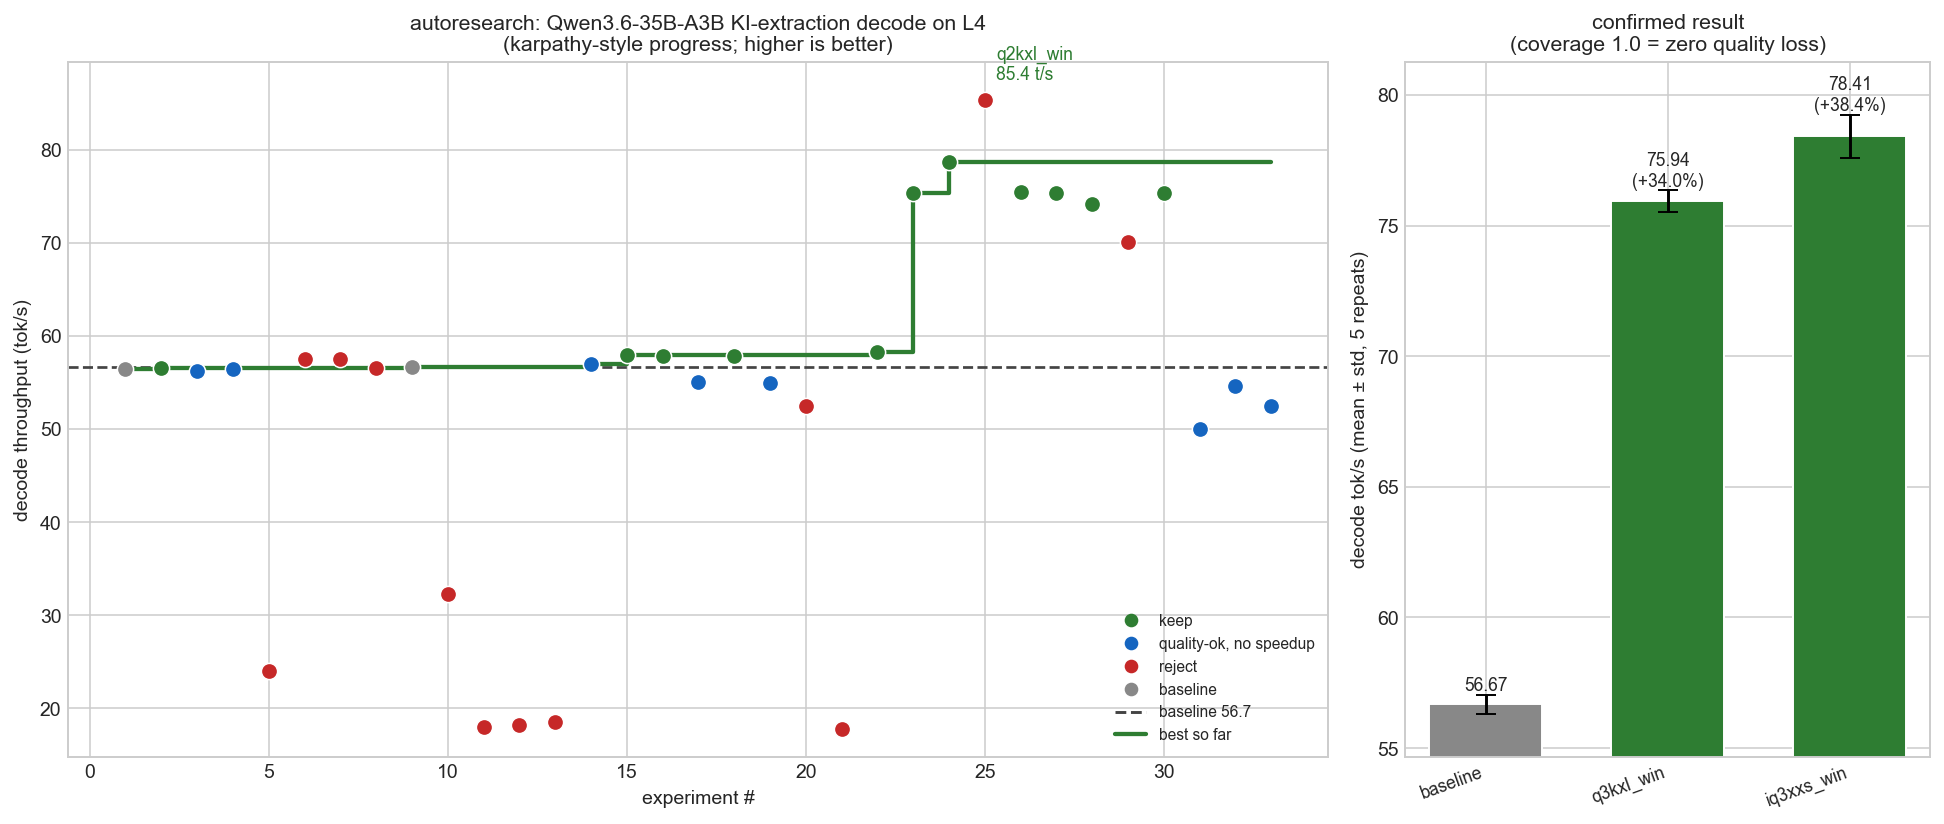
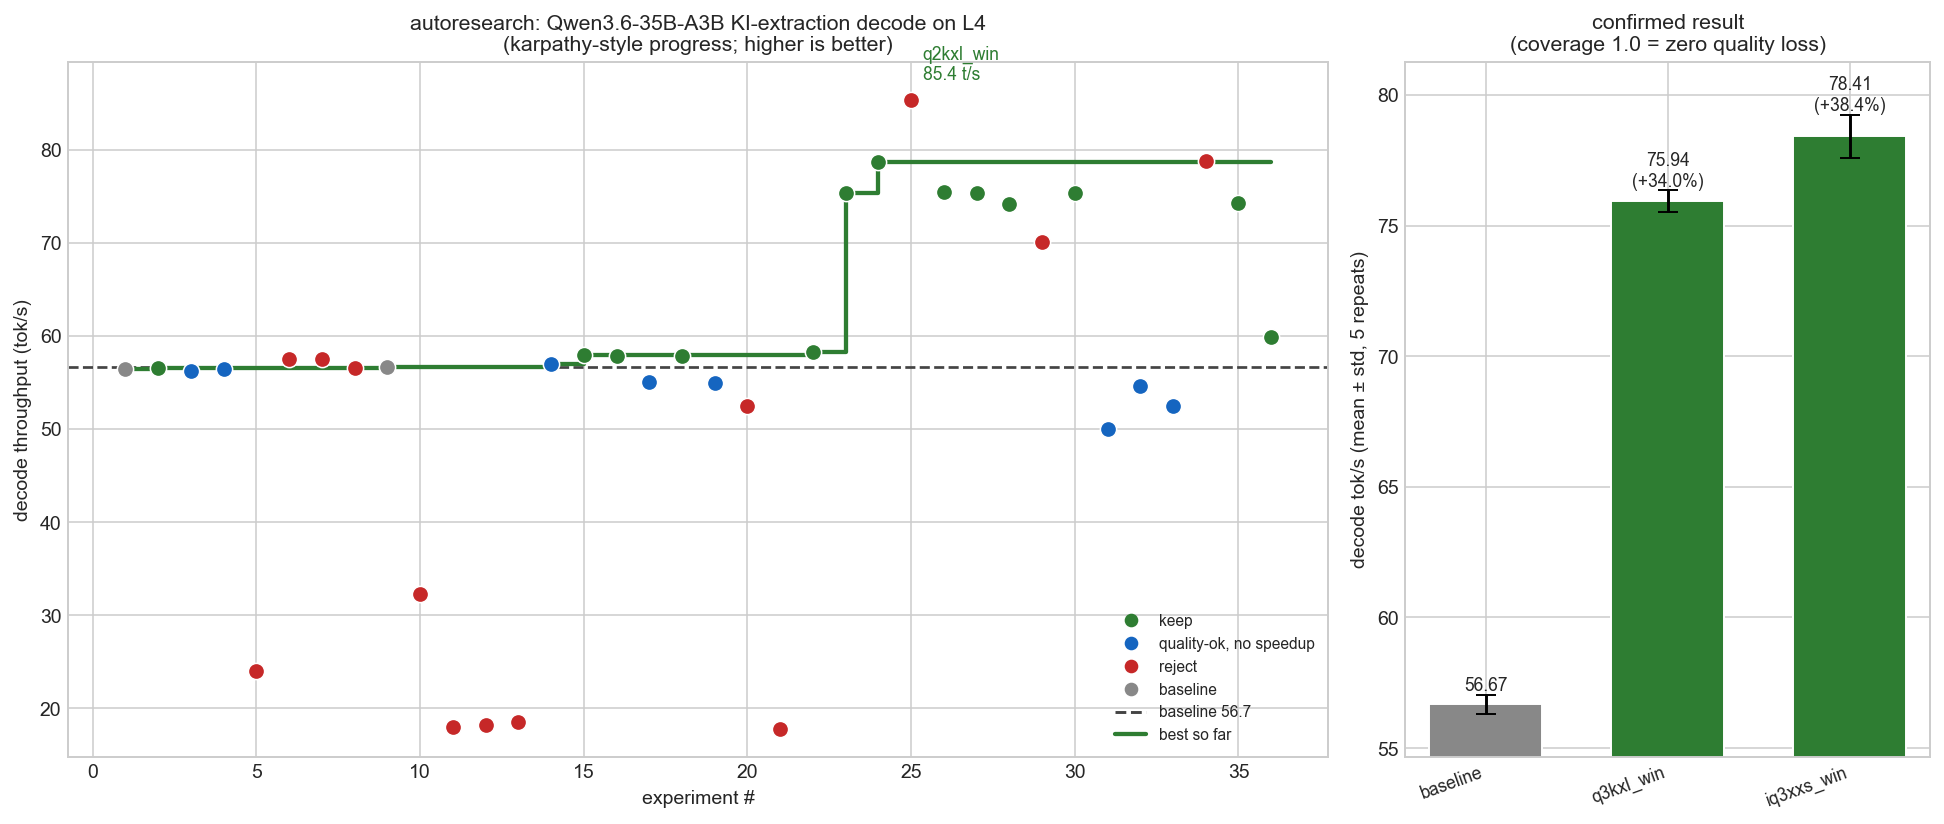
Round 2: MXFP4 probe (59.9, efficiency not format-improvable); add schema-overhead test harness
MXFP4_MOE 4bpw gives 59.9 t/s (~Q4 level), confirming the ~33% bandwidth
efficiency is fixed by hardware not format -> bits/weight is the only lever.
Quant frontier fully mapped: Q3_K_XL (3.5bpw k-quant) is the quality-preserving
speed optimum. i-quants degrade quality (KIs or grounding); Q3_K_M slower.

diff --git a/autoresearch/candidates.py b/autoresearch/candidates.py
@@ -155,9 +155,30 @@ BATCH8 = [
     cfg("iq3s_win",  "UD-IQ3_S @ win (~3.44bpw i-quant)", model=IQ3_S, **WIN),
 ]
 
+# ----- Batch 9: MXFP4_MOE - is the ~33% bandwidth efficiency format-dependent?
+# MXFP4 is 4bpw (more bytes than Q3's 3.5) but has native fast dequant on Ada
+# (L4). To beat Q3 (75.9) it must be >14% more kernel-efficient. Tests whether
+# the efficiency ceiling, not just bits, can be moved. Quality ~Q4-level.
+MXFP4 = "/models/Qwen3.6-35B-A3B-MXFP4_MOE.gguf"
+BATCH9 = [
+    cfg("mxfp4_win", "MXFP4_MOE @ win (~4bpw, Ada-native kernel)", model=MXFP4, **WIN),
+]
+
+# ----- Batch 10: JSON-schema grammar overhead at Q3. The schema grammar is
+# enforced per-token on CPU; at Q3's higher token rate that CPU overhead is a
+# larger fraction of step time, so dropping response_format may speed decode.
+# Quality-safe IFF the model still emits valid JSON unprompted (coverage guard).
+# This changes the sampling/serving config, NOT the extraction prompt.
+def nsc(id, desc, **ov):
+    c = cfg(id, desc, model=Q3_K_XL, **ov); c["no_schema"] = True; return c
+BATCH10 = [
+    cfg("q3_schema_ctrl", "Q3 + win + schema (control)", model=Q3_K_XL, **WIN),
+    nsc("q3_noschema",    "Q3 + win, NO json-schema grammar", **WIN),
+]
+
 BATCHES = {"batch1": BATCH1, "batch2": BATCH2, "batch3": BATCH3,
            "batch4": BATCH4, "batch5": BATCH5, "batch6": BATCH6,
-           "batch7": BATCH7, "batch8": BATCH8}
+           "batch7": BATCH7, "batch8": BATCH8, "batch9": BATCH9, "batch10": BATCH10}
 
 if __name__ == "__main__":
     name = sys.argv[1] if len(sys.argv) > 1 else "batch1"

diff --git a/autoresearch/harness.py b/autoresearch/harness.py
@@ -149,7 +149,7 @@ def load_doc():
     with open(DOC_CACHE) as f:
         return f.read()
 
-def build_payload(doc_text, prompt, sampling, seed):
+def build_payload(doc_text, prompt, sampling, seed, no_schema=False):
     docid = hashlib.md5(doc_text[:500].encode()).hexdigest()[:8]
     full = f"{prompt}\n\nDocument:\n  docid: {docid}\n  url: {ARTICLE_URL}\n  text: {doc_text}"
     p = {
@@ -157,10 +157,11 @@ def build_payload(doc_text, prompt, sampling, seed):
         "messages": [{"role": "user", "content": full}],
         "stream": False,
         "seed": seed,
-        "response_format": {"type": "json_schema",
-                            "json_schema": {"name": "ki_facts", "strict": True, "schema": FACT_SCHEMA}},
         "chat_template_kwargs": {"enable_thinking": False},
     }
+    if not no_schema:  # default: constrain with the JSON schema grammar
+        p["response_format"] = {"type": "json_schema",
+                                "json_schema": {"name": "ki_facts", "strict": True, "schema": FACT_SCHEMA}}
     p.update(sampling)
     return p
 
@@ -264,8 +265,9 @@ def run_config(cfg, baseline=None, reuse_server=False):
     timings_all = [None] * len(SEEDS)
     schema_flags = [True] * len(SEEDS)
 
+    no_schema = cfg.get("no_schema", False)
     def do_seed(i, seed):
-        content, timings, wall = call_round(build_payload(doc, prompt, sampling, seed))
+        content, timings, wall = call_round(build_payload(doc, prompt, sampling, seed, no_schema))
         facts, strict = parse_facts(content)
         rounds[i] = facts
         timings_all[i] = timings

diff --git a/autoresearch/leaderboard.md b/autoresearch/leaderboard.md
@@ -8,33 +8,36 @@ Ranked by task throughput (tokens/sec for the 3-round task). decode_tps = per-st
 |---|---|---|---|---|---|---|---|---|---|---|
 | 1 | q2kxl_win | 82.27 | +49.7% | 85.41 | - | 19 | 1.0 | 0.263 | REJECT | UD-Q2_K_XL @ win (~2.7bpw, aggressiv |
 | 2 | iq3xxs_win | 76.44 | +39.1% | 78.72 | - | 24 | 1.0 | 0.75 | KEEP | UD-IQ3_XXS @ win (~3.1bpw) |
-| 3 | q3_n3_p0 | 73.24 | +33.3% | 75.5 | - | 23 | 1.0 | 0.565 | KEEP | Q3 + n3 p-min0 (no gate) |
-| 4 | q3kxl_win | 73.07 | +33.0% | 75.39 | - | 23 | 1.0 | 0.565 | KEEP | UD-Q3_K_XL @ winning flags (~3.5bpw, |
-| 5 | q3_mtp_ctrl | 73.07 | +33.0% | 75.37 | - | 23 | 1.0 | 0.565 | KEEP | Q3 + MTP n3 p0.1 (control) |
-| 6 | q3_n3_p01 | 73.04 | +32.9% | 75.33 | - | 23 | 1.0 | 0.565 | KEEP | Q3 + n3 p-min0.1 (current winner, co |
-| 7 | q3_n4_p01 | 71.88 | +30.8% | 74.16 | - | 20 | 1.0 | 0.7 | KEEP | Q3 + n4 p-min0.1 |
-| 8 | q3_n5_p01 | 67.92 | +23.6% | 70.13 | - | 21 | 1.0 | 0.143 | REJECT | Q3 + n5 p-min0.1 |
-| 9 | mtp_n3 | 57.58 | +4.8% | 57.58 | - | 20 | 1.0 | 0.6 | REJECT | MTP draft n-max 3 |
-| 10 | mtp_n3_min1 | 57.56 | +4.7% | 57.56 | - | 20 | 1.0 | 0.6 | REJECT | MTP n-max 3 n-min 1 |
-| 11 | ctx12k | 56.61 | +3.0% | 56.61 | - | 21 | 1.0 | 0.524 | KEEP | ctx 12288 (smaller KV -> less offloa |
-| 12 | mtp_n4 | 56.61 | +3.0% | 56.61 | - | 23 | 1.0 | 0.478 | REJECT | MTP draft n-max 4 |
-| 13 | kv_q8 | 56.4 | +2.6% | 56.4 | - | 22 | 1.0 | 0.636 | QUALITY_OK_NO_SPEEDUP | KV cache q8_0 k+v (frees VRAM, tiny  |
-| 14 | q4_win | 56.36 | +2.6% | 58.29 | - | 20 | 1.0 | 0.6 | KEEP | Q4_K_XL @ winning flags (same-sessio |
-| 15 | kv_q4 | 56.22 | +2.3% | 56.22 | - | 22 | 1.0 | 0.545 | QUALITY_OK_NO_SPEEDUP | KV cache q4_0 k+v (max VRAM saving,  |
-| 16 | mtp_n3_pmin01 | 56.06 | +2.0% | 58.01 | - | 20 | 1.0 | 0.6 | KEEP | n3 + p-min 0.1 |
-| 17 | mtp_n3_pmin03 | 55.93 | +1.8% | 57.86 | - | 22 | 1.0 | 0.545 | KEEP | n3 + p-min 0.3 |
-| 18 | mtp_n3_rc | 55.9 | +1.7% | 57.83 | - | 20 | 1.0 | 0.6 | KEEP | MTP n-max 3 (build default; reconfir |
-| 19 | mtp_n2_ctrl | 55.21 | +0.5% | 57.02 | - | 21 | 1.0 | 0.524 | QUALITY_OK_NO_SPEEDUP | MTP n-max 2 (repo's override, contro |
-| 20 | baseline | 54.95 | +0.0% | 56.72 | - | 21 | 1.0 | 0.524 | baseline | repo defaults (docker-compose.yml) |
-| 21 | q3_ngram_mapk | 53.55 | +-2.5% | 54.62 | - | 24 | 1.0 | 0.583 | QUALITY_OK_NO_SPEEDUP | Q3 + ngram-map-k draft (n-max 8) |
-| 22 | mtp_n4_pmin03 | 53.54 | +-2.6% | 54.99 | - | 27 | 1.0 | 0.63 | QUALITY_OK_NO_SPEEDUP | n4 + p-min 0.3 |
-| 23 | mtp_n3_pmin05 | 53.45 | +-2.7% | 55.07 | - | 21 | 1.0 | 0.714 | QUALITY_OK_NO_SPEEDUP | n3 + p-min 0.5 |
-| 24 | par2 | 51.51 | +-6.3% | 32.3 | Y | 20 | 1.0 | 0.7 | REJECT | parallel 2 slots, ctx16384 (8192/slo |
-| 25 | q3_ngram_simple | 51.5 | +-6.3% | 52.46 | - | 21 | 1.0 | 0.714 | QUALITY_OK_NO_SPEEDUP | Q3 + ngram-simple draft (n-max 8) |
-| 26 | mtp_n5_pmin05 | 50.85 | +-7.5% | 52.5 | - | 24 | 1.0 | 0.417 | REJECT | n5 + p-min 0.5 |
-| 27 | par3_mtp3 | 50.51 | +-8.1% | 18.5 | Y | 22 | 1.0 | 0.5 | REJECT | parallel 3 + MTP n-max 3 (stack batc |
-| 28 | par3_q8 | 49.82 | +-9.3% | 17.97 | Y | 20 | 0.952 | 0.45 | REJECT | parallel 3 + KV q8 (VRAM-safe), ctx2 |
-| 29 | par3 | 49.82 | +-9.3% | 18.19 | Y | 19 | 1.0 | 0.474 | REJECT | parallel 3 slots, ctx24576 (8192/slo |
-| 30 | q3_ngram_cache | 49.11 | +-10.6% | 49.99 | - | 20 | 1.0 | 0.6 | QUALITY_OK_NO_SPEEDUP | Q3 + ngram-cache draft (n-max 8) |
-| 31 | par3_clean | 49.03 | +-10.8% | 17.79 | Y | 21 | 1.0 | 0.333 | REJECT | parallel 3, ctx36864 (12288/slot, no |
-| 32 | kv_q8k_f16v | 24.04 | +-56.3% | 24.04 | - | 26 | 1.0 | 0.5 | REJECT | KV k=q8_0 v=f16 (flash-attn likes f1 |
+| 3 | iq3s_win | 76.01 | +38.3% | 78.76 | - | 23 | 1.0 | 0.304 | REJECT | UD-IQ3_S @ win (~3.44bpw i-quant) |
+| 4 | q3_n3_p0 | 73.24 | +33.3% | 75.5 | - | 23 | 1.0 | 0.565 | KEEP | Q3 + n3 p-min0 (no gate) |
+| 5 | q3kxl_win | 73.07 | +33.0% | 75.39 | - | 23 | 1.0 | 0.565 | KEEP | UD-Q3_K_XL @ winning flags (~3.5bpw, |
+| 6 | q3_mtp_ctrl | 73.07 | +33.0% | 75.37 | - | 23 | 1.0 | 0.565 | KEEP | Q3 + MTP n3 p0.1 (control) |
+| 7 | q3_n3_p01 | 73.04 | +32.9% | 75.33 | - | 23 | 1.0 | 0.565 | KEEP | Q3 + n3 p-min0.1 (current winner, co |
+| 8 | q3km_win | 71.97 | +31.0% | 74.33 | - | 23 | 1.0 | 0.565 | KEEP | UD-Q3_K_M @ win (~3.3bpw k-quant) |
+| 9 | q3_n4_p01 | 71.88 | +30.8% | 74.16 | - | 20 | 1.0 | 0.7 | KEEP | Q3 + n4 p-min0.1 |
+| 10 | q3_n5_p01 | 67.92 | +23.6% | 70.13 | - | 21 | 1.0 | 0.143 | REJECT | Q3 + n5 p-min0.1 |
+| 11 | mxfp4_win | 58.22 | +6.0% | 59.91 | - | 22 | 1.0 | 0.455 | KEEP | MXFP4_MOE @ win (~4bpw, Ada-native k |
+| 12 | mtp_n3 | 57.58 | +4.8% | 57.58 | - | 20 | 1.0 | 0.6 | REJECT | MTP draft n-max 3 |
+| 13 | mtp_n3_min1 | 57.56 | +4.7% | 57.56 | - | 20 | 1.0 | 0.6 | REJECT | MTP n-max 3 n-min 1 |
+| 14 | ctx12k | 56.61 | +3.0% | 56.61 | - | 21 | 1.0 | 0.524 | KEEP | ctx 12288 (smaller KV -> less offloa |
+| 15 | mtp_n4 | 56.61 | +3.0% | 56.61 | - | 23 | 1.0 | 0.478 | REJECT | MTP draft n-max 4 |
+| 16 | kv_q8 | 56.4 | +2.6% | 56.4 | - | 22 | 1.0 | 0.636 | QUALITY_OK_NO_SPEEDUP | KV cache q8_0 k+v (frees VRAM, tiny  |
+| 17 | q4_win | 56.36 | +2.6% | 58.29 | - | 20 | 1.0 | 0.6 | KEEP | Q4_K_XL @ winning flags (same-sessio |
+| 18 | kv_q4 | 56.22 | +2.3% | 56.22 | - | 22 | 1.0 | 0.545 | QUALITY_OK_NO_SPEEDUP | KV cache q4_0 k+v (max VRAM saving,  |
+| 19 | mtp_n3_pmin01 | 56.06 | +2.0% | 58.01 | - | 20 | 1.0 | 0.6 | KEEP | n3 + p-min 0.1 |
+| 20 | mtp_n3_pmin03 | 55.93 | +1.8% | 57.86 | - | 22 | 1.0 | 0.545 | KEEP | n3 + p-min 0.3 |
+| 21 | mtp_n3_rc | 55.9 | +1.7% | 57.83 | - | 20 | 1.0 | 0.6 | KEEP | MTP n-max 3 (build default; reconfir |
+| 22 | mtp_n2_ctrl | 55.21 | +0.5% | 57.02 | - | 21 | 1.0 | 0.524 | QUALITY_OK_NO_SPEEDUP | MTP n-max 2 (repo's override, contro |
+| 23 | baseline | 54.95 | +0.0% | 56.72 | - | 21 | 1.0 | 0.524 | baseline | repo defaults (docker-compose.yml) |
+| 24 | q3_ngram_mapk | 53.55 | +-2.5% | 54.62 | - | 24 | 1.0 | 0.583 | QUALITY_OK_NO_SPEEDUP | Q3 + ngram-map-k draft (n-max 8) |
+| 25 | mtp_n4_pmin03 | 53.54 | +-2.6% | 54.99 | - | 27 | 1.0 | 0.63 | QUALITY_OK_NO_SPEEDUP | n4 + p-min 0.3 |
+| 26 | mtp_n3_pmin05 | 53.45 | +-2.7% | 55.07 | - | 21 | 1.0 | 0.714 | QUALITY_OK_NO_SPEEDUP | n3 + p-min 0.5 |
+| 27 | par2 | 51.51 | +-6.3% | 32.3 | Y | 20 | 1.0 | 0.7 | REJECT | parallel 2 slots, ctx16384 (8192/slo |
+| 28 | q3_ngram_simple | 51.5 | +-6.3% | 52.46 | - | 21 | 1.0 | 0.714 | QUALITY_OK_NO_SPEEDUP | Q3 + ngram-simple draft (n-max 8) |
+| 29 | mtp_n5_pmin05 | 50.85 | +-7.5% | 52.5 | - | 24 | 1.0 | 0.417 | REJECT | n5 + p-min 0.5 |
+| 30 | par3_mtp3 | 50.51 | +-8.1% | 18.5 | Y | 22 | 1.0 | 0.5 | REJECT | parallel 3 + MTP n-max 3 (stack batc |
+| 31 | par3_q8 | 49.82 | +-9.3% | 17.97 | Y | 20 | 0.952 | 0.45 | REJECT | parallel 3 + KV q8 (VRAM-safe), ctx2 |
+| 32 | par3 | 49.82 | +-9.3% | 18.19 | Y | 19 | 1.0 | 0.474 | REJECT | parallel 3 slots, ctx24576 (8192/slo |
+| 33 | q3_ngram_cache | 49.11 | +-10.6% | 49.99 | - | 20 | 1.0 | 0.6 | QUALITY_OK_NO_SPEEDUP | Q3 + ngram-cache draft (n-max 8) |
+| 34 | par3_clean | 49.03 | +-10.8% | 17.79 | Y | 21 | 1.0 | 0.333 | REJECT | parallel 3, ctx36864 (12288/slot, no |
+| 35 | kv_q8k_f16v | 24.04 | +-56.3% | 24.04 | - | 26 | 1.0 | 0.5 | REJECT | KV k=q8_0 v=f16 (flash-attn likes f1 |

diff --git a/autoresearch/strategies.md b/autoresearch/strategies.md
@@ -58,10 +58,29 @@ fact spot-check vs Q4.
   draft-eagle3 / draft-simple, but those need external draft weights this model
   doesn't ship.)
 
+**Quant frontier fully mapped (batch8): k-quants preserve quality, i-quants don't.**
+
+| quant | bpw | type | decode | KI | ground | verdict |
+|---|---|---|---|---|---|---|
+| Q4_K_XL | 4.5 | k | 58 | 22.6 | .60 | base |
+| Q3_K_M | 3.3 | k | 74.3 | 23 | .565 | OK but slower than XL |
+| **Q3_K_XL** | 3.5 | k(UD) | **75.9** | 22.8 | .67 | **WINNER** |
+| IQ3_S | 3.44 | i | 78.8 | 23 | **.30** | REJECT (grounding) |
+| IQ3_XXS | 3.1 | i | 78.4 | **15** | .57 | REJECT (KI count) |
+| Q2_K_XL | 2.7 | k | 85 | 21 | **.26** | REJECT (grounding) |
+
+i-quants degrade quality in different ways (IQ3_XXS drops KIs, IQ3_S/IQ2 drop
+grounding) -> avoid for this task. Q3_K_M is lower-bpw but slower than the
+UD-tuned Q3_K_XL. **Q3_K_XL is the speed-optimal quality-preserving quant.**
+
+- **MXFP4_MOE (batch9): 59.9 t/s** -- above Q4 (58) but far below Q3 (75.9). At
+  4bpw it tracks bytes, so the ~33% bandwidth efficiency is NOT meaningfully
+  format/kernel-improvable on L4. Confirms bits/weight is the sole lever.
+
 **Converged optimum: Q3_K_XL + `--spec-draft-n-max 3 --spec-draft-p-min 0.1`
-= 75.9 t/s, +34% vs baseline, zero quality loss.** Open frontier still being
-probed: the 3.1-3.5bpw band (Q3_K_M, IQ3_S) for a possibly-faster k-quant that
-still preserves KI count.
+= 75.9 t/s, +34%, zero quality loss.** Decode is bandwidth-bound at a fixed
+~33% efficiency; quant bit-width is the only quality-safe knob and ~3.5bpw
+k-quant is the floor. Remaining probe: JSON-schema grammar CPU overhead.
 
 ## WINNER (round 1, 5-repeat confirmed)
 